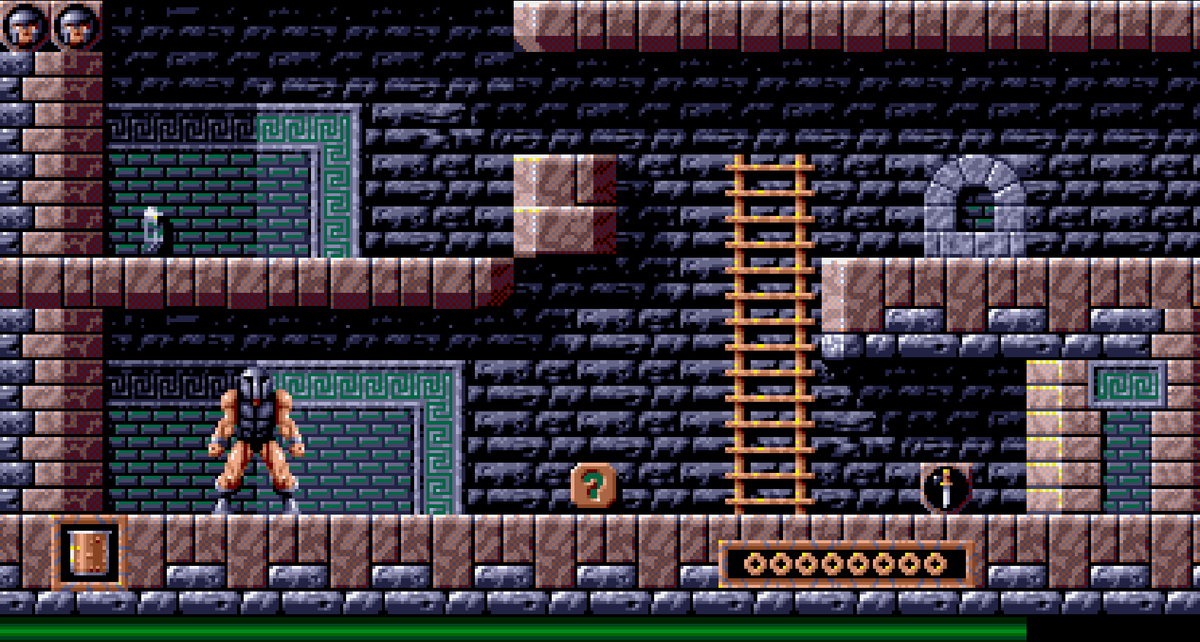
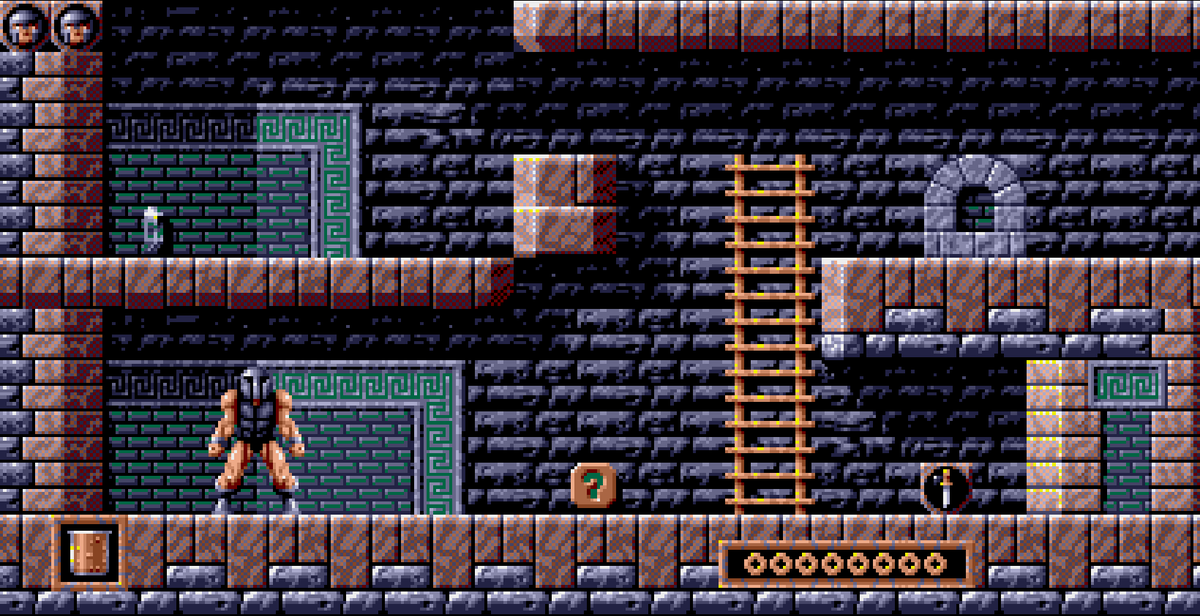
Website 603: crop the green bar off the Gods picture

diff --git a/docs/atari-st.html b/docs/atari-st.html
@@ -39,7 +39,7 @@
 
 <section id="games" class="wrap section">
 <div class="section-heading"><p class="eyebrow">REAL GAMEPLAY / FROM THE 1.1.603 BUILD</p><h2>See it in<br>your games.</h2><p>Pictures taken from SemaTor itself, all in widescreen. Games are not included; the pictures are small captures of play.</p></div>
-<div class="looks-grid st-gallery"><figure><a href="gameplay/st-gods-wide.png"><img src="gameplay/st-gods-wide.png" width="1200" height="642" loading="lazy" alt="Gods in widescreen: the hero in a Greek temple with ladders, ledges and a green-and-bronze frieze"></a><figcaption>Gods in widescreen: more of the temple on screen, with the game's own pictures and colours.</figcaption></figure><figure><a href="gameplay/st-hard-drivin-21x9.png"><img src="gameplay/st-hard-drivin-21x9.png" width="1000" height="429" loading="lazy" alt="Hard Drivin' in 21:9 widescreen"></a><figcaption>Hard Drivin' in 21:9: road, sky and mountains run out to the edges, the dashboard stays whole.</figcaption></figure><figure><a href="gameplay/st-simulcra-21x9.png"><img src="gameplay/st-simulcra-21x9.png" width="1000" height="429" loading="lazy" alt="Simulcra in 21:9 widescreen"></a><figcaption>Simulcra in 21:9: the track runs on past where the original stopped.</figcaption></figure><figure><a href="gameplay/st-hard-drivin-16x9.png"><img src="gameplay/st-hard-drivin-16x9.png" width="1280" height="720" loading="lazy" alt="Hard Drivin' in 16:9 widescreen"></a><figcaption>Hard Drivin' in 16:9.</figcaption></figure><figure><a href="gameplay/st-b17-21x9.png"><img src="gameplay/st-b17-21x9.png" width="1000" height="357" loading="lazy" alt="A B-17 bomber on the airfield in 21:9"></a><figcaption>A B-17 bomber on the airfield, in 21:9.</figcaption></figure></div>
+<div class="looks-grid st-gallery"><figure><a href="gameplay/st-gods-wide.png"><img src="gameplay/st-gods-wide.png" width="1200" height="616" loading="lazy" alt="Gods in widescreen: the hero in a Greek temple with ladders, ledges and a green-and-bronze frieze"></a><figcaption>Gods in widescreen: more of the temple on screen, with the game's own pictures and colours.</figcaption></figure><figure><a href="gameplay/st-hard-drivin-21x9.png"><img src="gameplay/st-hard-drivin-21x9.png" width="1000" height="429" loading="lazy" alt="Hard Drivin' in 21:9 widescreen"></a><figcaption>Hard Drivin' in 21:9: road, sky and mountains run out to the edges, the dashboard stays whole.</figcaption></figure><figure><a href="gameplay/st-simulcra-21x9.png"><img src="gameplay/st-simulcra-21x9.png" width="1000" height="429" loading="lazy" alt="Simulcra in 21:9 widescreen"></a><figcaption>Simulcra in 21:9: the track runs on past where the original stopped.</figcaption></figure><figure><a href="gameplay/st-hard-drivin-16x9.png"><img src="gameplay/st-hard-drivin-16x9.png" width="1280" height="720" loading="lazy" alt="Hard Drivin' in 16:9 widescreen"></a><figcaption>Hard Drivin' in 16:9.</figcaption></figure><figure><a href="gameplay/st-b17-21x9.png"><img src="gameplay/st-b17-21x9.png" width="1000" height="357" loading="lazy" alt="A B-17 bomber on the airfield in 21:9"></a><figcaption>A B-17 bomber on the airfield, in 21:9.</figcaption></figure></div>
 <p class="release-link">Widescreen is an option you switch on per game: <a href="games/index.html?system=st">see each game's list</a>.</p>
 </section>
 <section id="extras" class="paint-section"><div class="wrap section">
